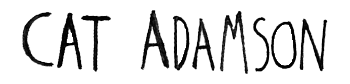
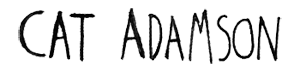
pw

diff --git a/resume.html b/resume.html
@@ -9,15 +9,15 @@
     <body>
                 <header>
                     <h1><a href="index.html">
-                    <img src="img/name_tab.jpg" width="150" title="home">
+                    <img src="img/name_tab.jpg" width="150" title="home" alt="home">
                     </a>
                     </h1>
                     
                 <nav>
-                   <a href="bio.html"> <img src="img/bio.jpg" width="60" title="bio"> </a>
-                    <a href="resume.html"><img src="img/resume.jpg" width="80" title="resume"> </a>
-                    <a href="contact.html"><img src="img/contact.jpg" width="80" title="contact"> </a>
-                     <a href="work.html"><img src="img/work.jpg" width="80" title="work"> </a>
+                   <a href="bio.html"> <img src="img/bio.jpg" width="60" title="bio" alt="bio"> </a>
+                    <a href="resume.html"><img src="img/resume.jpg" width="80" title="resume" alt="resume"> </a>
+                    <a href="contact.html"><img src="img/contact.jpg" width="80" title="contact" alt="contact"> </a>
+                     <a href="work.html"><img src="img/work.jpg" width="80" title="work" alt="work"> </a>
                 </nav>
                 </header>
         
@@ -33,7 +33,7 @@
                     
                      <div class="image">
                         
-                         <img src="img/education.jpg" width="70" title="education">
+                         <img src="img/education.jpg" width="70" title="education" alt="education">
                          
                      </div>
                     
@@ -59,7 +59,7 @@
                     
                     <div class="image">
                         
-                    <img src="img/awards.jpg" width="70" title="awards">
+                    <img src="img/awards.jpg" width="70" title="awards" alt="awards">
 
                     </div>
                         
@@ -80,7 +80,7 @@
                         
                     <div class="image">
                         
-                        <img src="img/media.jpg" width="70" title="media">
+                        <img src="img/media.jpg" width="70" title="media" alt="media">
 
                     </div>
                         
@@ -152,7 +152,7 @@
                         
                     <div class="image">
                         
-                            <img src="img/additional.jpg" width="70" title="additional experience">
+                            <img src="img/additional.jpg" width="70" title="additional experience" alt="additional experience">
 
                     </div>
                         
@@ -191,7 +191,7 @@
                         
                     <div class="image">
                         
-                            <img src="img/skills.jpg" width="70" title="skills">
+                            <img src="img/skills.jpg" width="70" title="skills" alt="skills">
 
                     </div>
                         

diff --git a/contact.html b/contact.html
@@ -9,14 +9,14 @@
     <body>
                 <header>
                     <h1><a href="index.html">
-                    <img src="img/name_tab.jpg" width="150" title="home">
+                    <img src="img/name_tab.jpg" width="150" title="home" alt="home">
                     </a>
                     </h1>
                 <nav>
-                   <a href="bio.html"> <img src="img/bio.jpg" width="60" title="bio"> </a>
-                    <a href="resume.html"><img src="img/resume.jpg" width="80" title="resume"> </a>
-                    <a href="contact.html"><img src="img/contact.jpg" width="80" title="contact"> </a>
-                     <a href="work.html"><img src="img/work.jpg" width="80" title="work"> </a>
+                   <a href="bio.html"> <img src="img/bio.jpg" width="60" title="bio" alt="bio"> </a>
+                    <a href="resume.html"><img src="img/resume.jpg" width="80" title="resume" alt="resume"> </a>
+                    <a href="contact.html"><img src="img/contact.jpg" width="80" title="contact" alt="contact"> </a>
+                     <a href="work.html"><img src="img/work.jpg" width="80" title="work" alt="work"> </a>
                 </nav>
                 </header>
         
@@ -25,7 +25,7 @@
     
                 <div class="page">
                     
-                    <img src="img/takecare.jpg" width="50%" title="take care" class="takecare">
+                    <img src="img/takecare.jpg" width="50%" title="take care" alt="take care" class="takecare">
                     
                 <div class="email">
                             <p> I would love to work with you!  Come say hello at <a href="mailto:lauren.c.adamson@gmail.com">lauren.c.adamson@gmail.com.</a></p>

diff --git a/bio.html b/bio.html
@@ -9,14 +9,14 @@
     <body>
                 <header>
                     <h1> <a href="index.html">
-                    <img src="img/name_tab.jpg" width="150" title="home">
+                    <img src="img/name_tab.jpg" width="150" title="home" alt="home">
                     </a>
                     </h1>
                 <nav>
-                    <a href="bio.html"> <img src="img/bio.jpg" width="60" title="bio"> </a>
-                    <a href="resume.html"><img src="img/resume.jpg" width="80" title="resume"> </a>
-                    <a href="contact.html"><img src="img/contact.jpg" width="80" title="contact"> </a>                    
-                      <a href="work.html"><img src="img/work.jpg" width="80" title="work"> </a>
+                    <a href="bio.html"> <img src="img/bio.jpg" width="60" title="bio" alt="bio"> </a>
+                    <a href="resume.html"><img src="img/resume.jpg" width="80" title="resume" alt="resume"> </a>
+                    <a href="contact.html"><img src="img/contact.jpg" width="80" title="contact" alt="contact"> </a>                    
+                      <a href="work.html"><img src="img/work.jpg" width="80" title="work" alt="work"> </a>
                 </nav>
                 </header>
     
@@ -27,7 +27,7 @@
                 <div class="page">
                    
         
-                    <img src="img/cat.jpg" title="me" width="50%" class="cat">
+                    <img src="img/cat.jpg" title="me" alt="me" width="50%" class="cat">
              
                 
                 <div class="info">

diff --git a/work.html b/work.html
@@ -9,15 +9,15 @@
     <body>
                 <header>
                     <h1><a href="index.html">
-                    <img src="img/name_tab.jpg" width="150" title="home">
+                    <img src="img/name_tab.jpg" width="150" title="home" alt="home">
                     </a>
                     </h1>
                     
                 <nav>
-                   <a href="bio.html"> <img src="img/bio.jpg" width="60" title="bio"> </a>
-                    <a href="resume.html"><img src="img/resume.jpg" width="80" title="resume"> </a>
-                    <a href="contact.html"><img src="img/contact.jpg" width="80" title="contact"> </a>
-                     <a href="work.html"><img src="img/work.jpg" width="80" title="work"> </a>
+                   <a href="bio.html"> <img src="img/bio.jpg" width="60" title="bio" alt="bio"> </a>
+                    <a href="resume.html"><img src="img/resume.jpg" width="80" title="resume" alt="resume"> </a>
+                    <a href="contact.html"><img src="img/contact.jpg" width="80" title="contact" alt="contact"> </a>
+                     <a href="work.html"><img src="img/work.jpg" width="80" title="work" alt="work"> </a>
                 </nav>
                 </header>
         

diff --git a/index.html b/index.html
@@ -8,20 +8,20 @@
     
     <div id="name">
     
-                <img src="img/name.png" width="300" title="Cat Adamson">
+        <img src="img/name.png" width="300" height="72" title="Cat Adamson" alt="Cat Adamson">
     
     </div>
     <div id="logo">
     
                 <a href="bio.html">
-                <img src="img/logo_cat.jpg" width="500" height="379" title="personal logo">
+                <img src="img/logo_cat.jpg" width="500" height="379" title="personal logo" alt="personal logo">
                 </a>
     
     </div>
     <div id="enter">
     
                 <a href="bio.html">
-                <img src="img/enter.jpg" width="150" title="enter">
+                <img src="img/enter.jpg" width="150" height="86" title="enter" alt="enter>
                 </a>
       </div>
 </html>
